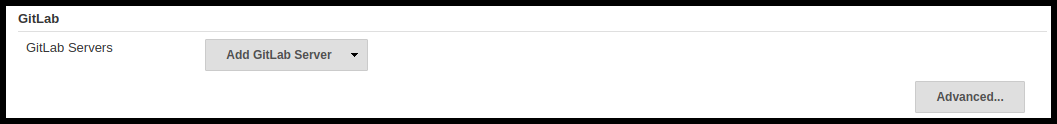
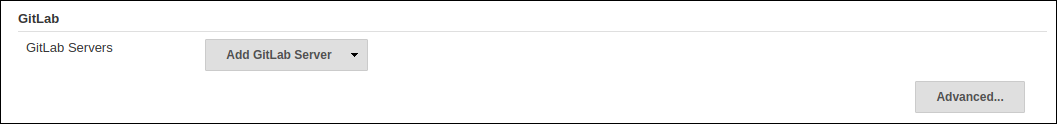
changed image border to 1px

Changed region(s): [[0.0, 0.0, 0.9991, 0.9919]]

diff --git a/README.md b/README.md
@@ -206,10 +206,37 @@ Assuming plugin installation has been done already.
 
 2. Select `Configure System`
 
-3. Scroll to find the `GitLab` section
+3. Scroll down to find the `GitLab` section
 
-![gitlab-section](docs/img/gitlab-section.png)
+   ![gitlab-section](docs/img/gitlab-section.png)
 
+4. Select `Add GitLab Server` | Select `GitLab Server`
+
+5. Now you will now see the GitLab Server Configuration options
+   
+   ![gitlab-server](docs/img/gitlab-server.png)
+   
+   There are 4 fields that needs to be configured:
+       
+    i. `Name` - Plugin automatically generates an unique server name for you. User may want to configure this field to suit their needs but
+           should make sure it is sufficiently unique. We recommend to keep it as it is.
+       
+    ii. `Server URL` - Contains the URL to your GitLab Server. By default it is set to "https://gitlab.com". User can modify it to enter their
+    GitLab Server URL e.g. https://gitlab.gnome.org/, http://gitlab.example.com:7990. etc.
+    
+    iii. `Credentials` - Contains a list of credentials entries that are of type GitLab Personal Access Token. When no credential has
+    been added it shows "-none-". User can add a credential by clicking "Add" button.
+    
+    iv. `Web Hook` - This field is a checkbox. If you want the plugin to setup a webhook on your GitLab project(s) related jobs, check this box. 
+    The plugin listens to a URL for the concerned GitLab project(s) and when an event occurs in the GitLab Server, the server
+    sends an event trigger to the URL where the webhook is setup. If you want continuous integration (or continuous delivery) on your
+    GitLab project then you may want to automatically set it up.
+     
+6. Adding a Personal Access Token Credentials:
+
+    i. User is required to add a `GitLab Personal Access Token` type credentials entry to securely persist the token inside Jenkins.
+
+    ii. 
 
 
 
